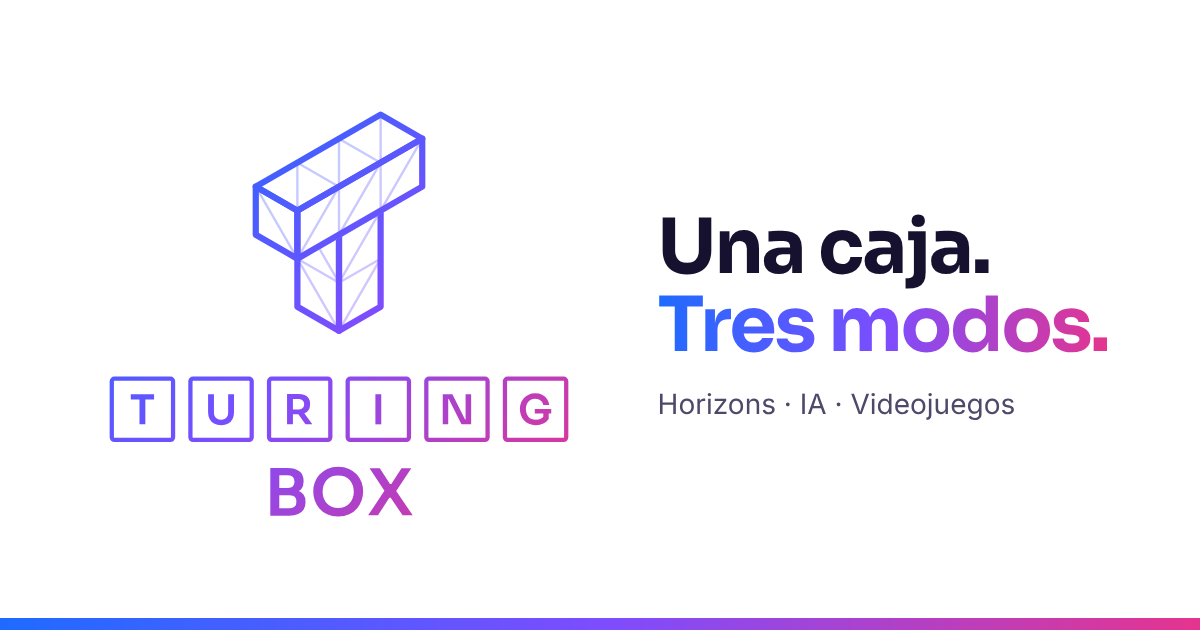
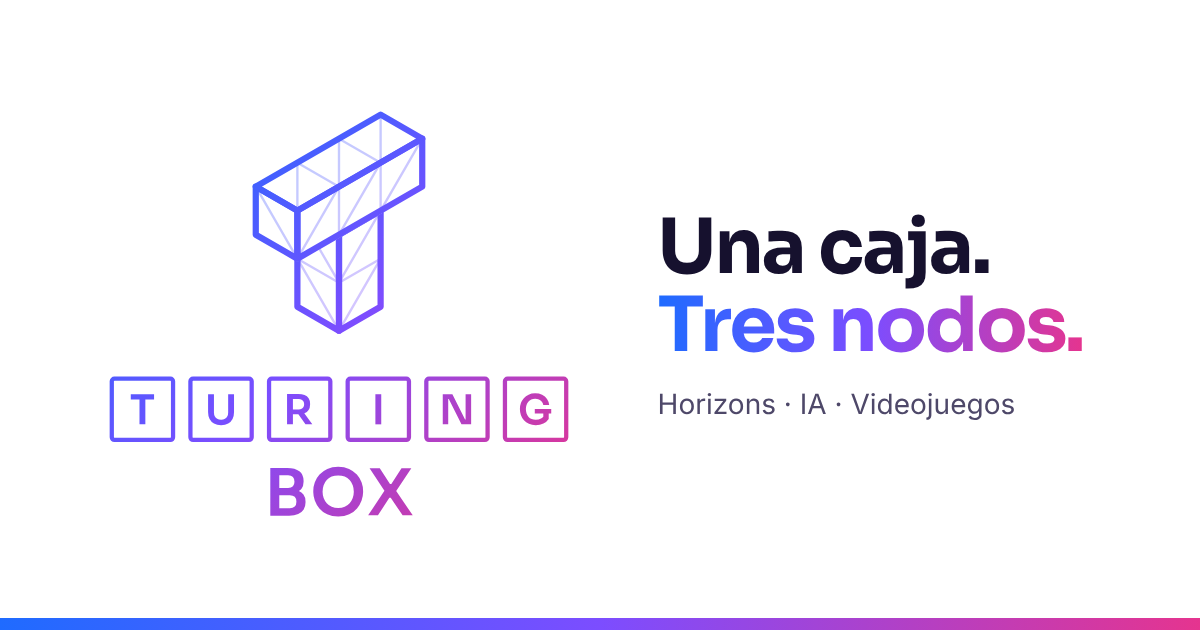
fix(copy): call Turing Box a student group with nodes
Turing Box es un grupo estudiantil y sus areas son nodos, no modos. Se actualizan los textos, la imagen para compartir y el README, y se agrega el credito de desarrollo en el pie.

Changed region(s): [[0.7092, 0.4524, 0.925, 0.573]]

diff --git a/index.html b/index.html
@@ -3,12 +3,12 @@
 <head>
   <meta charset="utf-8">
   <meta name="viewport" content="width=device-width, initial-scale=1">
-  <title>Turing Box · Una caja. Tres modos.</title>
-  <meta name="description" content="Turing Box es un semillero de tecnología de la Universidad Nacional de Colombia, Sede Medellín, con tres modos: Horizons (software), IA y Videojuegos.">
+  <title>Turing Box · Una caja. Tres nodos.</title>
+  <meta name="description" content="Turing Box es un grupo estudiantil de tecnología de la Universidad Nacional de Colombia, Sede Medellín, con tres nodos: Horizons (software), IA y Videojuegos.">
   <meta name="theme-color" content="#16112E">
   <meta property="og:type" content="website">
-  <meta property="og:title" content="Turing Box · Una caja. Tres modos.">
-  <meta property="og:description" content="Semillero de tecnología con tres modos: Horizons, IA y Videojuegos.">
+  <meta property="og:title" content="Turing Box · Una caja. Tres nodos.">
+  <meta property="og:description" content="Grupo estudiantil de tecnología con tres nodos: Horizons, IA y Videojuegos.">
   <meta property="og:image" content="https://s3scobar.github.io/Turing-box/assets/og.png">
   <meta name="twitter:card" content="summary_large_image">
   <link rel="icon" href="assets/brand/favicon.svg" type="image/svg+xml">
@@ -39,7 +39,7 @@
       <img class="brand__full" src="assets/brand/turing-box-horizontal.svg" alt="" width="160" height="44">
       <img class="brand__mark" src="assets/brand/favicon.svg" alt="" width="36" height="36">
     </a>
-    <div class="mode-switch" role="radiogroup" aria-label="Modo de la web (próximamente)"><button type="button" class="mode-switch__btn" role="radio" aria-checked="false" aria-disabled="true" data-mode="horizons"><svg class="icon" viewBox="0 0 24 24" aria-hidden="true" focusable="false" fill="none" stroke="currentColor" stroke-width="1.75" stroke-linecap="round" stroke-linejoin="round"><path d="M8 7l-5 5 5 5M16 7l5 5-5 5"/><g stroke="var(--accent, currentColor)"><path d="M14 5l-4 14"/></g></svg><span>Horizons</span></button><button type="button" class="mode-switch__btn" role="radio" aria-checked="false" aria-disabled="true" data-mode="ia"><svg class="icon" viewBox="0 0 24 24" aria-hidden="true" focusable="false" fill="none" stroke="currentColor" stroke-width="1.75" stroke-linecap="round" stroke-linejoin="round"><circle cx="5" cy="7" r="2"/><circle cx="5" cy="17" r="2"/><circle cx="19" cy="12" r="2"/><path d="M7 7.5l10 4M7 16.5l10-4"/><g stroke="var(--accent, currentColor)"><circle cx="12" cy="4" r="1.6"/><path d="M6.5 8.5l4.4-3.4M13.2 5.3l4.6 5"/></g></svg><span>IA</span></button><button type="button" class="mode-switch__btn" role="radio" aria-checked="false" aria-disabled="true" data-mode="videojuegos"><svg class="icon" viewBox="0 0 24 24" aria-hidden="true" focusable="false" fill="none" stroke="currentColor" stroke-width="1.75" stroke-linecap="round" stroke-linejoin="round"><path d="M6 8h12a4 4 0 0 1 4 4v1a4 4 0 0 1-7 2.6l-.8-.9H9.8l-.8.9A4 4 0 0 1 2 13v-1a4 4 0 0 1 4-4z"/><g stroke="var(--accent, currentColor)"><path d="M7 11v3M5.5 12.5h3"/><circle cx="16.5" cy="11.5" r=".9"/><circle cx="18" cy="13.8" r=".9"/></g></svg><span>Videojuegos</span></button></div>
+    <div class="mode-switch" role="radiogroup" aria-label="Nodo de la web (próximamente)"><button type="button" class="mode-switch__btn" role="radio" aria-checked="false" aria-disabled="true" data-mode="horizons"><svg class="icon" viewBox="0 0 24 24" aria-hidden="true" focusable="false" fill="none" stroke="currentColor" stroke-width="1.75" stroke-linecap="round" stroke-linejoin="round"><path d="M8 7l-5 5 5 5M16 7l5 5-5 5"/><g stroke="var(--accent, currentColor)"><path d="M14 5l-4 14"/></g></svg><span>Horizons</span></button><button type="button" class="mode-switch__btn" role="radio" aria-checked="false" aria-disabled="true" data-mode="ia"><svg class="icon" viewBox="0 0 24 24" aria-hidden="true" focusable="false" fill="none" stroke="currentColor" stroke-width="1.75" stroke-linecap="round" stroke-linejoin="round"><circle cx="5" cy="7" r="2"/><circle cx="5" cy="17" r="2"/><circle cx="19" cy="12" r="2"/><path d="M7 7.5l10 4M7 16.5l10-4"/><g stroke="var(--accent, currentColor)"><circle cx="12" cy="4" r="1.6"/><path d="M6.5 8.5l4.4-3.4M13.2 5.3l4.6 5"/></g></svg><span>IA</span></button><button type="button" class="mode-switch__btn" role="radio" aria-checked="false" aria-disabled="true" data-mode="videojuegos"><svg class="icon" viewBox="0 0 24 24" aria-hidden="true" focusable="false" fill="none" stroke="currentColor" stroke-width="1.75" stroke-linecap="round" stroke-linejoin="round"><path d="M6 8h12a4 4 0 0 1 4 4v1a4 4 0 0 1-7 2.6l-.8-.9H9.8l-.8.9A4 4 0 0 1 2 13v-1a4 4 0 0 1 4-4z"/><g stroke="var(--accent, currentColor)"><path d="M7 11v3M5.5 12.5h3"/><circle cx="16.5" cy="11.5" r=".9"/><circle cx="18" cy="13.8" r=".9"/></g></svg><span>Videojuegos</span></button></div>
   </header>
   <p class="toast" role="status" aria-live="polite"></p>
 
@@ -47,17 +47,17 @@
     <section class="hero" id="inicio">
       <div class="hero__inner">
         <svg class="hero__logo" viewBox="-30.0 -30.0 760.0 672.0" role="img" aria-label="Turing Box"><defs><linearGradient id="g14" gradientUnits="userSpaceOnUse" x1="105.0" y1="0.0" x2="665.0" y2="612.0"><stop offset="0.00" stop-color="#1F6BFF"/><stop offset="0.50" stop-color="#7C4DFF"/><stop offset="1.00" stop-color="#E5348F"/></linearGradient></defs><defs><mask id="mk15" maskUnits="userSpaceOnUse" x="-107.0" y="-330.0" width="914.0" height="990.0"><rect x="-107.0" y="-330.0" width="914.0" height="990.0" fill="#fff"/><polygon points="286.49,146.67 477.02,36.67 413.51,0.00 222.98,110.00" fill="#000" stroke="#000" stroke-width="8.55" stroke-linejoin="round"/><polygon points="286.49,220.00 477.02,110.00 477.02,36.67 286.49,146.67" fill="#000" stroke="#000" stroke-width="8.55" stroke-linejoin="round"/><polygon points="286.49,220.00 222.98,183.33 222.98,110.00 286.49,146.67" fill="#000" stroke="#000" stroke-width="8.55" stroke-linejoin="round"/></mask></defs><g mask="url(#mk15)"><line pathLength="1" x1="350.00" y1="256.67" x2="413.51" y2="220.00" stroke="url(#g14)" stroke-width="3.61" stroke-linecap="round" opacity=".32"/><line pathLength="1" x1="350.00" y1="256.67" x2="286.49" y2="220.00" stroke="url(#g14)" stroke-width="3.61" stroke-linecap="round" opacity=".32"/><line pathLength="1" x1="350.00" y1="330.00" x2="413.51" y2="220.00" stroke="url(#g14)" stroke-width="3.61" stroke-linecap="round" opacity=".32"/><line pathLength="1" x1="350.00" y1="330.00" x2="286.49" y2="220.00" stroke="url(#g14)" stroke-width="3.61" stroke-linecap="round" opacity=".32"/><line pathLength="1" x1="350.00" y1="256.67" x2="413.51" y2="146.67" stroke="url(#g14)" stroke-width="3.61" stroke-linecap="round" opacity=".32"/><line pathLength="1" x1="350.00" y1="256.67" x2="286.49" y2="146.67" stroke="url(#g14)" stroke-width="3.61" stroke-linecap="round" opacity=".32"/><polygon pathLength="1" points="350.00,330.00 413.51,293.33 413.51,146.67 350.00,183.33" fill="none" stroke="url(#g14)" stroke-width="9.50" stroke-linejoin="round"/><polygon pathLength="1" points="350.00,330.00 286.49,293.33 286.49,146.67 350.00,183.33" fill="none" stroke="url(#g14)" stroke-width="9.50" stroke-linejoin="round"/></g><line pathLength="1" x1="350.00" y1="183.33" x2="350.00" y2="110.00" stroke="url(#g14)" stroke-width="3.61" stroke-linecap="round" opacity=".32"/><line pathLength="1" x1="350.00" y1="110.00" x2="286.49" y2="73.33" stroke="url(#g14)" stroke-width="3.61" stroke-linecap="round" opacity=".32"/><line pathLength="1" x1="413.51" y1="146.67" x2="413.51" y2="73.33" stroke="url(#g14)" stroke-width="3.61" stroke-linecap="round" opacity=".32"/><line pathLength="1" x1="413.51" y1="73.33" x2="350.00" y2="36.67" stroke="url(#g14)" stroke-width="3.61" stroke-linecap="round" opacity=".32"/><line pathLength="1" x1="286.49" y1="220.00" x2="350.00" y2="110.00" stroke="url(#g14)" stroke-width="3.61" stroke-linecap="round" opacity=".32"/><line pathLength="1" x1="286.49" y1="146.67" x2="286.49" y2="73.33" stroke="url(#g14)" stroke-width="3.61" stroke-linecap="round" opacity=".32"/><line pathLength="1" x1="350.00" y1="183.33" x2="413.51" y2="73.33" stroke="url(#g14)" stroke-width="3.61" stroke-linecap="round" opacity=".32"/><line pathLength="1" x1="350.00" y1="110.00" x2="350.00" y2="36.67" stroke="url(#g14)" stroke-width="3.61" stroke-linecap="round" opacity=".32"/><line pathLength="1" x1="413.51" y1="146.67" x2="477.02" y2="36.67" stroke="url(#g14)" stroke-width="3.61" stroke-linecap="round" opacity=".32"/><line pathLength="1" x1="413.51" y1="73.33" x2="413.51" y2="0.00" stroke="url(#g14)" stroke-width="3.61" stroke-linecap="round" opacity=".32"/><line pathLength="1" x1="286.49" y1="220.00" x2="222.98" y2="110.00" stroke="url(#g14)" stroke-width="3.61" stroke-linecap="round" opacity=".32"/><polygon pathLength="1" points="286.49,146.67 477.02,36.67 413.51,0.00 222.98,110.00" fill="none" stroke="url(#g14)" stroke-width="9.50" stroke-linejoin="round"/><polygon pathLength="1" points="286.49,220.00 477.02,110.00 477.02,36.67 286.49,146.67" fill="none" stroke="url(#g14)" stroke-width="9.50" stroke-linejoin="round"/><polygon pathLength="1" points="286.49,220.00 222.98,183.33 222.98,110.00 286.49,146.67" fill="none" stroke="url(#g14)" stroke-width="9.50" stroke-linejoin="round"/><rect pathLength="1" x="3.25" y="403.25" width="93.50" height="93.50" rx="4.00" fill="none" stroke="url(#g14)" stroke-width="6.50"/><path d="M45.53 473.00V434.88H32.23V427.00H67.77V434.88H54.47V473.00Z" fill="url(#g14)"/><rect pathLength="1" x="123.25" y="403.25" width="93.50" height="93.50" rx="4.00" fill="none" stroke="url(#g14)" stroke-width="6.50"/><path d="M170.06 474.20Q163.64 474.20 159.22 471.74Q154.81 469.28 152.51 464.84Q150.21 460.40 150.21 454.41V427.00H159.16V454.92Q159.16 458.19 160.42 460.68Q161.68 463.17 164.11 464.52Q166.53 465.88 170.06 465.88Q173.53 465.88 175.95 464.52Q178.38 463.17 179.61 460.71Q180.84 458.25 180.84 454.92V427.00H189.79V454.41Q189.79 460.40 187.55 464.84Q185.31 469.28 180.90 471.74Q176.49 474.20 170.06 474.20Z" fill="url(#g14)"/><rect pathLength="1" x="243.25" y="403.25" width="93.50" height="93.50" rx="4.00" fill="none" stroke="url(#g14)" stroke-width="6.50"/><path d="M270.72 473.00V426.68H287.79Q293.34 426.68 297.40 428.32Q301.47 429.96 303.67 433.30Q305.88 436.64 305.88 441.68V442.69Q305.88 447.79 303.64 451.07Q301.41 454.35 297.37 455.99Q297.18 456.05 296.99 456.11L309.28 473.00H298.82L287.98 457.62Q287.92 457.62 287.79 457.62H279.67V473.00ZM279.67 434.31V450.38H288.74Q291.20 450.38 292.99 449.37Q294.79 448.36 295.80 446.53Q296.81 444.71 296.81 442.38Q296.81 439.98 295.80 438.15Q294.79 436.33 292.99 435.32Q291.20 434.31 288.74 434.31Z" fill="url(#g14)"/><rect pathLength="1" x="363.25" y="403.25" width="93.50" height="93.50" rx="4.00" fill="none" stroke="url(#g14)" stroke-width="6.50"/><path d="M405.53 473.00V427.00H414.47V473.00Z" fill="url(#g14)"/><rect pathLength="1" x="483.25" y="403.25" width="93.50" height="93.50" rx="4.00" fill="none" stroke="url(#g14)" stroke-width="6.50"/><path d="M508.35 473.00V427.00H523.04L542.38 465.56H543.20V427.00H551.65V473.00H536.90L517.55 434.44H516.67V473.00Z" fill="url(#g14)"/><rect pathLength="1" x="603.25" y="403.25" width="93.50" height="93.50" rx="4.00" fill="none" stroke="url(#g14)" stroke-width="6.50"/><path d="M650.25 474.20Q644.33 474.20 639.82 472.21Q635.32 470.23 632.26 466.86Q629.21 463.48 627.66 459.23Q626.12 454.98 626.12 450.38V448.99Q626.12 444.64 627.63 440.48Q629.14 436.33 632.07 432.99Q635.00 429.65 639.32 427.66Q643.64 425.68 649.24 425.68Q655.29 425.68 659.96 427.91Q664.62 430.15 667.45 434.15Q670.29 438.15 670.79 443.45H661.78Q661.34 440.48 659.58 438.37Q657.81 436.26 655.14 435.13Q652.46 433.99 649.24 433.99Q646.03 433.99 643.42 435.13Q640.80 436.26 638.97 438.34Q637.15 440.42 636.17 443.32Q635.19 446.22 635.19 449.75Q635.19 453.59 636.26 456.62Q637.33 459.64 639.29 461.75Q641.24 463.86 644.01 464.97Q646.79 466.07 650.25 466.07Q654.85 466.07 658.32 464.12Q660.40 462.98 661.78 461.41V456.30H648.80V449.62H673.88V456.30H670.04V464.75Q667.08 469.22 661.97 471.71Q656.87 474.20 650.25 474.20Z" fill="url(#g14)"/><path d="M245.16 612.49V539.51H271.00Q283.23 539.51 289.59 544.64Q295.95 549.76 295.95 559.33V560.71Q295.95 567.42 292.79 571.36Q291.12 573.53 288.75 574.92Q293.09 576.69 295.75 580.04Q298.91 584.09 298.91 590.89V592.27Q298.91 598.68 296.10 603.17Q293.29 607.66 287.72 610.08Q282.14 612.49 273.96 612.49ZM258.87 581.13V601.25H274.94Q279.87 601.25 282.44 598.54Q285.00 595.82 285.00 591.09Q285.00 586.36 282.44 583.74Q279.87 581.13 274.94 581.13ZM258.87 550.75V570.28H272.28Q277.31 570.28 279.68 567.62Q282.04 564.95 282.04 560.52Q282.04 556.08 279.68 553.41Q277.31 550.75 272.28 550.75ZM348.82 613.87Q339.05 613.87 331.90 610.42Q324.75 606.97 320.07 601.40Q315.38 595.82 313.06 589.36Q310.75 582.90 310.75 576.89V574.72Q310.75 568.11 313.11 561.55Q315.48 554.99 320.26 549.67Q325.05 544.34 332.15 541.13Q339.25 537.93 348.82 537.93Q358.28 537.93 365.39 541.13Q372.49 544.34 377.27 549.67Q382.05 554.99 384.42 561.55Q386.79 568.11 386.79 574.72V576.89Q386.79 582.90 384.47 589.36Q382.15 595.82 377.47 601.40Q372.78 606.97 365.63 610.42Q358.48 613.87 348.82 613.87ZM348.82 600.85Q354.34 600.85 358.73 598.88Q363.12 596.91 366.22 593.41Q369.33 589.91 370.96 585.42Q372.59 580.93 372.59 575.90Q372.59 570.48 370.96 565.94Q369.33 561.40 366.22 558.05Q363.12 554.70 358.68 552.82Q354.24 550.95 348.82 550.95Q343.29 550.95 338.85 552.82Q334.42 554.70 331.31 558.05Q328.20 561.40 326.58 565.94Q324.95 570.48 324.95 575.90Q324.95 580.93 326.58 585.42Q328.20 589.91 331.31 593.41Q334.42 596.91 338.85 598.88Q343.29 600.85 348.82 600.85ZM394.48 612.00 419.34 574.42 396.65 540.00H412.24L427.82 564.16H429.89L445.38 540.00H460.37L437.29 574.92L462.54 612.00H447.05L428.90 584.98H426.83L409.47 612.00Z" fill="url(#g14)"/></svg>
-        <h1 class="hero__title">Una caja. <span class="spectrum-text">Tres modos.</span></h1>
-        <p class="hero__lead">Inteligencia artificial, videojuegos y software. Un solo semillero para crear tecnología.</p>
+        <h1 class="hero__title">Una caja. <span class="spectrum-text">Tres nodos.</span></h1>
+        <p class="hero__lead">Inteligencia artificial, videojuegos y software. Un solo grupo estudiantil para crear tecnología.</p>
       </div>
       <a class="scroll-cue" href="#manifiesto">Desliza para abrir la caja<span aria-hidden="true"></span></a>
     </section>
 
     <section class="manifesto" id="manifiesto" aria-label="Qué es Turing Box">
-      <p class="manifesto__text"><span class="word">Turing</span> <span class="word">Box</span> <span class="word">es</span> <span class="word">un</span> <span class="word">semillero</span> <span class="word">de</span> <span class="word">tecnología</span> <span class="word">de</span> <span class="word">la</span> <span class="word">Universidad</span> <span class="word">Nacional</span> <span class="word">de</span> <span class="word">Colombia,</span> <span class="word">Sede</span> <span class="word">Medellín.</span> <span class="word">Adentro</span> <span class="word">hay</span> <span class="word">tres</span> <span class="word">formas</span> <span class="word">de</span> <span class="word">crear.</span></p>
+      <p class="manifesto__text"><span class="word">Turing</span> <span class="word">Box</span> <span class="word">es</span> <span class="word">un</span> <span class="word">grupo</span> <span class="word">estudiantil</span> <span class="word">de</span> <span class="word">tecnología</span> <span class="word">de</span> <span class="word">la</span> <span class="word">Universidad</span> <span class="word">Nacional</span> <span class="word">de</span> <span class="word">Colombia,</span> <span class="word">Sede</span> <span class="word">Medellín.</span> <span class="word">Adentro</span> <span class="word">hay</span> <span class="word">tres</span> <span class="word">formas</span> <span class="word">de</span> <span class="word">crear.</span></p>
     </section>
 
-    <section class="modes" id="modos" aria-label="Los tres modos" data-active="horizons">
+    <section class="modes" id="nodos" aria-label="Los tres nodos" data-active="horizons">
       <div class="modes__stage" aria-hidden="true">
         <div class="stage__bg" data-for="horizons"></div><div class="stage__bg" data-for="ia"></div><div class="stage__bg" data-for="videojuegos"></div>
         <div class="stage__grid"></div>
@@ -67,7 +67,7 @@
       <div class="modes__steps">
         <article class="step" data-mode="horizons" aria-labelledby="step-horizons">
           <div class="step__card">
-            <p class="kicker">Modo 01 · Software</p>
+            <p class="kicker">Nodo 01 · Software</p>
             <h2 class="step__title" id="step-horizons"><svg class="icon" viewBox="0 0 24 24" aria-hidden="true" focusable="false" fill="none" stroke="currentColor" stroke-width="1.75" stroke-linecap="round" stroke-linejoin="round"><path d="M8 7l-5 5 5 5M16 7l5 5-5 5"/><g stroke="var(--accent, currentColor)"><path d="M14 5l-4 14"/></g></svg>Horizons</h2>
             <p class="step__lead">Software real, construido en equipo.</p>
             <p class="step__text">Llevamos ideas de la comunidad universitaria a productos que funcionan, como lo haría una empresa tech.</p>
@@ -76,7 +76,7 @@
         </article>
         <article class="step" data-mode="ia" aria-labelledby="step-ia">
           <div class="step__card">
-            <p class="kicker">Modo 02 · Inteligencia artificial</p>
+            <p class="kicker">Nodo 02 · Inteligencia artificial</p>
             <h2 class="step__title" id="step-ia"><svg class="icon" viewBox="0 0 24 24" aria-hidden="true" focusable="false" fill="none" stroke="currentColor" stroke-width="1.75" stroke-linecap="round" stroke-linejoin="round"><circle cx="5" cy="7" r="2"/><circle cx="5" cy="17" r="2"/><circle cx="19" cy="12" r="2"/><path d="M7 7.5l10 4M7 16.5l10-4"/><g stroke="var(--accent, currentColor)"><circle cx="12" cy="4" r="1.6"/><path d="M6.5 8.5l4.4-3.4M13.2 5.3l4.6 5"/></g></svg>IA</h2>
             <p class="step__lead">Enseñamos a las máquinas a pensar.</p>
             <p class="step__text">Exploramos modelos, datos y experimentos para resolver problemas con inteligencia artificial.</p>
@@ -85,7 +85,7 @@
         </article>
         <article class="step" data-mode="videojuegos" aria-labelledby="step-videojuegos">
           <div class="step__card">
-            <p class="kicker">Modo 03 · Videojuegos</p>
+            <p class="kicker">Nodo 03 · Videojuegos</p>
             <h2 class="step__title" id="step-videojuegos"><svg class="icon" viewBox="0 0 24 24" aria-hidden="true" focusable="false" fill="none" stroke="currentColor" stroke-width="1.75" stroke-linecap="round" stroke-linejoin="round"><path d="M6 8h12a4 4 0 0 1 4 4v1a4 4 0 0 1-7 2.6l-.8-.9H9.8l-.8.9A4 4 0 0 1 2 13v-1a4 4 0 0 1 4-4z"/><g stroke="var(--accent, currentColor)"><path d="M7 11v3M5.5 12.5h3"/><circle cx="16.5" cy="11.5" r=".9"/><circle cx="18" cy="13.8" r=".9"/></g></svg>Videojuegos</h2>
             <p class="step__lead">Mundos que se juegan.</p>
             <p class="step__text">Diseñamos mecánicas, arte y narrativa interactiva, y los convertimos en juegos que se pueden jugar.</p>
@@ -97,8 +97,8 @@
 
     <section class="pillars" id="que-hacemos" aria-labelledby="pillars-title">
       <p class="kicker">Dentro de la caja</p>
-      <h2 class="section-title" id="pillars-title">Lo que hacemos, en cualquier modo.</h2>
-      <ul class="pillars__list"><li class="pillar"><span class="pillar__icon"><svg class="icon" viewBox="0 0 24 24" aria-hidden="true" focusable="false" fill="none" stroke="currentColor" stroke-width="1.75" stroke-linecap="round" stroke-linejoin="round"><rect x="3" y="5" width="18" height="14" rx="2"/><g stroke="var(--accent, currentColor)"><path d="M7 10l3 2.5L7 15M12 15.5h4"/></g></svg></span><h3>Hackatones</h3><p>Competimos juntos y llevamos cada reto hasta una entrega real, contra el reloj.</p></li><li class="pillar"><span class="pillar__icon"><svg class="icon" viewBox="0 0 24 24" aria-hidden="true" focusable="false" fill="none" stroke="currentColor" stroke-width="1.75" stroke-linecap="round" stroke-linejoin="round"><path d="M12 3l8 4.5v9L12 21l-8-4.5v-9z"/><path d="M4 7.5l8 4.5 8-4.5"/><g stroke="var(--accent, currentColor)"><path d="M12 12v9"/></g></svg></span><h3>Proyectos reales</h3><p>Construimos para personas reales: de una idea a algo que se puede usar.</p></li><li class="pillar"><span class="pillar__icon"><svg class="icon" viewBox="0 0 24 24" aria-hidden="true" focusable="false" fill="none" stroke="currentColor" stroke-width="1.75" stroke-linecap="round" stroke-linejoin="round"><path d="M9 18h6M10 21h4M12 3a6 6 0 0 0-3.5 10.9c.6.5 1 1.2 1 2.1h5c0-.9.4-1.6 1-2.1A6 6 0 0 0 12 3z"/><g stroke="var(--accent, currentColor)"></g></svg></span><h3>Aprender haciendo</h3><p>El proceso importa tanto como el resultado: aprendemos en cada ciclo.</p></li><li class="pillar"><span class="pillar__icon"><svg class="icon" viewBox="0 0 24 24" aria-hidden="true" focusable="false" fill="none" stroke="currentColor" stroke-width="1.75" stroke-linecap="round" stroke-linejoin="round"><circle cx="9" cy="8" r="3"/><path d="M3 20c0-3.3 2.7-6 6-6s6 2.7 6 6"/><g stroke="var(--accent, currentColor)"><circle cx="17.5" cy="9" r="2.3"/></g></svg></span><h3>Comunidad</h3><p>Tres modos, un solo equipo que se revisa, se enseña y se impulsa.</p></li></ul>
+      <h2 class="section-title" id="pillars-title">Lo que hacemos, en cualquier nodo.</h2>
+      <ul class="pillars__list"><li class="pillar"><span class="pillar__icon"><svg class="icon" viewBox="0 0 24 24" aria-hidden="true" focusable="false" fill="none" stroke="currentColor" stroke-width="1.75" stroke-linecap="round" stroke-linejoin="round"><rect x="3" y="5" width="18" height="14" rx="2"/><g stroke="var(--accent, currentColor)"><path d="M7 10l3 2.5L7 15M12 15.5h4"/></g></svg></span><h3>Hackatones</h3><p>Competimos juntos y llevamos cada reto hasta una entrega real, contra el reloj.</p></li><li class="pillar"><span class="pillar__icon"><svg class="icon" viewBox="0 0 24 24" aria-hidden="true" focusable="false" fill="none" stroke="currentColor" stroke-width="1.75" stroke-linecap="round" stroke-linejoin="round"><path d="M12 3l8 4.5v9L12 21l-8-4.5v-9z"/><path d="M4 7.5l8 4.5 8-4.5"/><g stroke="var(--accent, currentColor)"><path d="M12 12v9"/></g></svg></span><h3>Proyectos reales</h3><p>Construimos para personas reales: de una idea a algo que se puede usar.</p></li><li class="pillar"><span class="pillar__icon"><svg class="icon" viewBox="0 0 24 24" aria-hidden="true" focusable="false" fill="none" stroke="currentColor" stroke-width="1.75" stroke-linecap="round" stroke-linejoin="round"><path d="M9 18h6M10 21h4M12 3a6 6 0 0 0-3.5 10.9c.6.5 1 1.2 1 2.1h5c0-.9.4-1.6 1-2.1A6 6 0 0 0 12 3z"/><g stroke="var(--accent, currentColor)"></g></svg></span><h3>Aprender haciendo</h3><p>El proceso importa tanto como el resultado: aprendemos en cada ciclo.</p></li><li class="pillar"><span class="pillar__icon"><svg class="icon" viewBox="0 0 24 24" aria-hidden="true" focusable="false" fill="none" stroke="currentColor" stroke-width="1.75" stroke-linecap="round" stroke-linejoin="round"><circle cx="9" cy="8" r="3"/><path d="M3 20c0-3.3 2.7-6 6-6s6 2.7 6 6"/><g stroke="var(--accent, currentColor)"><circle cx="17.5" cy="9" r="2.3"/></g></svg></span><h3>Comunidad</h3><p>Tres nodos, un solo equipo que se revisa, se enseña y se impulsa.</p></li></ul>
     </section>
 
     <section class="cycle" aria-labelledby="cycle-title">
@@ -108,15 +108,15 @@
     </section>
 
     <section class="closing" aria-labelledby="closing-title">
-      <h2 class="closing__title" id="closing-title">Abre la caja.<br><span class="spectrum-text">Elige tu modo.</span></h2>
-      <p class="closing__text">Las inscripciones abren pronto. Mientras tanto, conoce los modos y prepárate para tu primer reto.</p>
+      <h2 class="closing__title" id="closing-title">Abre la caja.<br><span class="spectrum-text">Elige tu nodo.</span></h2>
+      <p class="closing__text">Las inscripciones abren pronto. Mientras tanto, conoce los nodos y prepárate para tu primer reto.</p>
     </section>
   </main>
 
   <footer class="site-footer">
     <img src="assets/brand/turing-box-horizontal.svg" alt="Turing Box" width="160" height="44" loading="lazy">
-    <p>Semillero de tecnología · Universidad Nacional de Colombia · Sede Medellín</p>
-    <p class="site-footer__small">Sitio en construcción · © 2026 Turing Box</p>
+    <p>Grupo estudiantil de tecnología · Universidad Nacional de Colombia · Sede Medellín</p>
+    <p class="site-footer__small">Web desarrollada por Santiago Escobar · © 2026 Turing Box</p>
   </footer>
 </body>
 </html>

diff --git a/js/main.js b/js/main.js
@@ -1,4 +1,4 @@
-// Turing Box · interacciones mínimas: intro, modo activo del escenario y aviso del interruptor.
+// Turing Box · interacciones mínimas: intro, nodo activo del escenario y aviso del interruptor de nodos.
 const root = document.documentElement;
 
 // Intro: se retira al terminar, al pulsar "Saltar", con un clic o con Escape.
@@ -17,7 +17,7 @@ if (root.classList.contains('intro-on') && intro) {
   addEventListener('keydown', (e) => { if (e.key === 'Escape') skip(); }, { once: true });
 }
 
-// Escenario de modos: el paso que cruza el centro de la pantalla define el modo visible.
+// Escenario de nodos: el paso que cruza el centro de la pantalla define el nodo visible.
 const modes = document.querySelector('.modes');
 if (modes) {
   const io = new IntersectionObserver((entries) => {
@@ -28,13 +28,13 @@ if (modes) {
   modes.querySelectorAll('.step').forEach((step) => io.observe(step));
 }
 
-// Interruptor de modos: visible pero aún no funcional.
+// Interruptor de nodos: visible pero aún no funcional.
 const toast = document.querySelector('.toast');
 let toastTimer;
 document.querySelectorAll('.mode-switch__btn').forEach((btn) => {
   btn.addEventListener('click', () => {
     const name = btn.textContent.trim();
-    toast.textContent = `El modo ${name} llega pronto. Por ahora estás en la vista general.`;
+    toast.textContent = `El nodo ${name} llega pronto. Por ahora estás en la vista general.`;
     toast.classList.add('is-visible');
     clearTimeout(toastTimer);
     toastTimer = setTimeout(() => toast.classList.remove('is-visible'), 2600);

diff --git a/README.md b/README.md
@@ -1,12 +1,12 @@
 # Turing Box · Web
 
-Página de presentación de **Turing Box**, semillero de tecnología de la Universidad Nacional de Colombia, Sede Medellín, con tres modos: **Horizons** (software), **IA** y **Videojuegos**.
+Página de presentación de **Turing Box**, grupo estudiantil de tecnología de la Universidad Nacional de Colombia, Sede Medellín, con tres nodos: **Horizons** (software), **IA** y **Videojuegos**.
 
 ## Qué incluye
 
-- Intro animada: el logo de Turing Box se dibuja y se divide en los símbolos de los tres modos. Se muestra una vez por sesión y se puede saltar.
-- Landing guiada por el scroll: el escenario de modos queda fijo mientras cambian Horizons, IA y Videojuegos.
-- Interruptor de modos en la cabecera. Aún no cambia la página: muestra un aviso de «próximamente».
+- Intro animada: el logo de Turing Box se dibuja y se divide en los símbolos de los tres nodos. Se muestra una vez por sesión y se puede saltar.
+- Landing guiada por el scroll: el escenario de nodos queda fijo mientras cambian Horizons, IA y Videojuegos.
+- Interruptor de nodos en la cabecera. Aún no cambia la página: muestra un aviso de «próximamente».
 - Diseño adaptable a móvil y escritorio. Respeta `prefers-reduced-motion`.
 
 ## Stack
@@ -14,7 +14,7 @@ Página de presentación de **Turing Box**, semillero de tecnología de la Unive
 HTML, CSS y JavaScript sin dependencias ni paso de compilación.
 
 - Animaciones con CSS Scroll-Driven Animations (`animation-timeline`), como mejora progresiva dentro de `@supports`.
-- Tokens de color del manual de identidad v1.1 como variables CSS. Cada modo usa los mismos nombres de token con distintos valores (`[data-mode]`), listos para el cambio de modo.
+- Tokens de color del manual de identidad v1.1 como variables CSS. Cada nodo usa los mismos nombres de token con distintos valores (`[data-mode]`), listos para el cambio de nodo.
 
 ## Ejecutar en local
 
@@ -29,7 +29,7 @@ Luego abre <http://localhost:8000>.
 ```
 index.html        Página única
 css/styles.css    Tokens, layout y animaciones
-js/main.js        Intro, modo activo del escenario y aviso del interruptor
+js/main.js        Intro, nodo activo del escenario y aviso del interruptor
 assets/brand/     Logos y símbolos (manual de identidad v1.1)
 assets/fonts/     Sora, Inter y JetBrains Mono (SIL Open Font License)
 ```
@@ -38,3 +38,7 @@ assets/fonts/     Sora, Inter y JetBrains Mono (SIL Open Font License)
 
 - Las fuentes se distribuyen bajo SIL Open Font License 1.1.
 - Los logos y símbolos de Turing Box pertenecen al equipo de Turing Box y no se licencian para otros usos.
+
+## Créditos
+
+Web desarrollada por Santiago Escobar.
